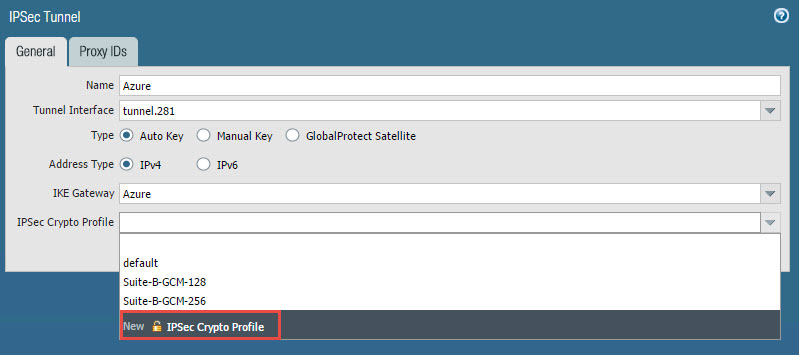
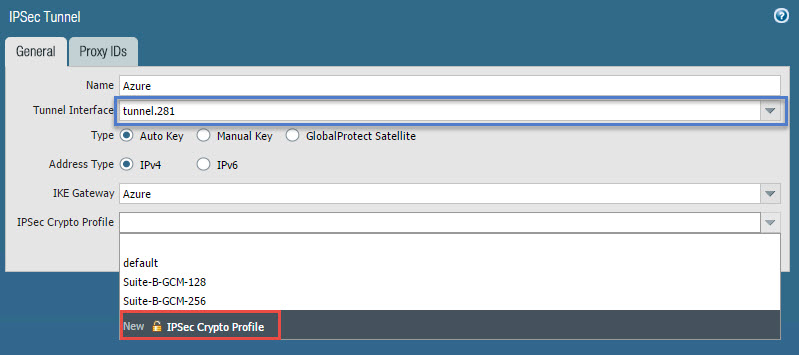
PsloAlto Update

Changed region(s): [[0.1202, 0.2479, 0.9912, 0.3718]]

diff --git a/PaloAlto/Current/Site-to-Site_VPN_using_PaloAlto.md b/PaloAlto/Current/Site-to-Site_VPN_using_PaloAlto.md
@@ -35,7 +35,7 @@ Add an IKE Gateway **Network** > **IKE Gateway** The following values are to be 
 
 On the **Advanced** Tab, check Enable NAT traversal if the firewall is behind a NAT device. 
 
-Create a new IKE Crypto Profile:
+Create a new IKE Crypto Profile
 
 ![](https://github.com/Azure/Azure-vpn-config-samples/blob/master/PaloAlto/Images/new_IKE_Cypto.jpg?raw=true)
 
@@ -48,7 +48,9 @@ Enable **Liveness Check**
 
 Add a new IPSec tunnel **Network** > **IPSec Tunnels**
 
-Create a new IPSec Crypto Profile
+- Choose the Tunnel Interface created in at the beginning of this document 
+- Create a new IPSec Crypto Profile
+
 ![](https://github.com/Azure/Azure-vpn-config-samples/blob/master/PaloAlto/Images/New_IPSEC%20Profile.jpg?raw=true)
 
 ![](https://github.com/Azure/Azure-vpn-config-samples/blob/master/PaloAlto/Images/IPSec_Crypto_Profile.jpg?raw=true)
